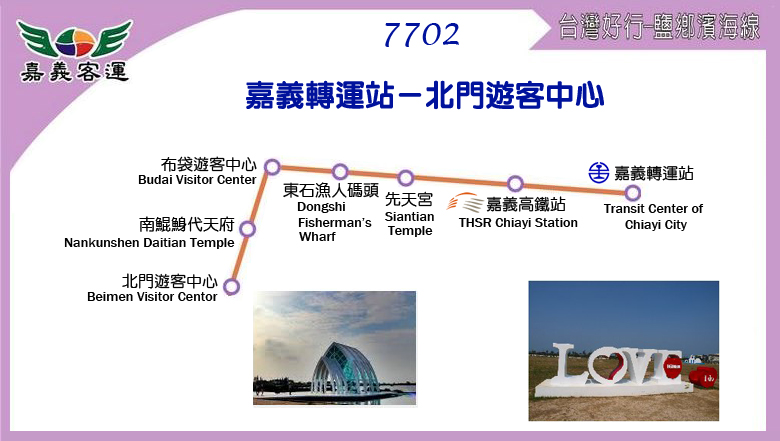
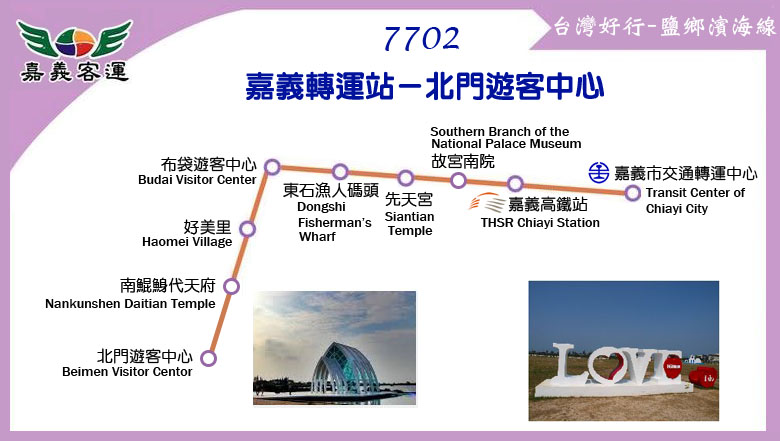
更新時刻表：7702 (郵輪式觀光公車待補)

diff --git a/route/fare_and_time/tour_bus_7702.js b/route/fare_and_time/tour_bus_7702.js
@@ -1,31 +1,36 @@
-tour_bus_7702_interval_name = ["嘉義<br />轉運站","嘉義<br />高鐵站","先天宮","東石漁<br />人碼頭","布袋遊<br />客中心","南鯤鯓<br />代天府","北門遊<br />客中心"];
+tour_bus_7702_interval_name = ["嘉義<br />轉運站","嘉義<br />高鐵站","故宮南院","先天宮","東石漁<br />人碼頭","布袋遊<br />客中心","好美里","南鯤鯓<br />代天府","北門遊<br />客中心"];
 tour_bus_7702_interval_stop = [
-["嘉義轉運站"],
+["嘉義市交通轉運中心"],
 ["嘉義高鐵站"],
+["故宮南院"],
 ["先天宮"],
 ["東石漁人碼頭"],
 ["布袋遊客中心"],
+["好美里"],
 ["南鯤鯓代天府"],
 ["北門遊客中心"]
 ];
-tour_bus_7702_stop_time_consume = [0,20,45,47,65,82,87];
 tour_bus_7702_fare = [
-[24,39,98,103,135,175,184],
-[44,24,59,64,96,137,145],
-[112,67,24,21,37,77,86],
-[117,73,24,24,32,73,81],
-[154,110,42,37,24,40,49],
-[200,155,88,83,46,24,21],
-[210,165,98,92,55,24,24]
+[24,39,49,99,104,136,168,187,196],
+[44,24,21,60,65,97,129,149,157],
+[56,24,24,50,54,87,118,138,147],
+[113,68,56,24,21,28,59,79,87],
+[118,74,62,24,24,33,64,84,92],
+[155,111,99,32,37,24,31,51,60],
+[191,147,135,67,73,36,24,21,28],
+[213,169,157,90,95,58,24,24,21],
+[223,179,167,100,105,68,32,24,24]
 ];
 // format = [time at the start stop] or
 // [time, other] or
 // [time, start_stop, end_stop, other]
-tour_bus_7702_main_stop_name = ["嘉義<br />轉運站","嘉義<br />高鐵站","先天宮","東石<br />漁人碼頭","布袋<br />遊客中心","南鯤鯓<br />代天府","北門<br />遊客中心"];
-tour_bus_7702_main_stop_time_consume = [0,20,45,47,65,82,87];
-tour_bus_7702_important_stop = [0, 1, 6]; // 嘉義轉運站, 嘉義高鐵站, 北門遊客中心
-tour_bus_7702_time_go = [["08:30"],["13:00"]];
-tour_bus_7702_time_return = [["11:00",['觀',[4,30]]],["15:00"]];
+tour_bus_7702_main_stop_name = ["嘉義<br />轉運站","嘉義<br />高鐵站","故宮南院","先天宮","東石<br />漁人碼頭","布袋<br />遊客中心","好美里","南鯤鯓<br />代天府","北門<br />遊客中心"];
+tour_bus_7702_main_stop_time_consume = [0,20,30,50,52,70,85,95,100];
+tour_bus_7702_important_stop = [0, 1, 2, 5, 8]; // 嘉義轉運站, 嘉義高鐵站, 故宮南院, 布袋遊客中心, 北門遊客中心
+var stop_1 = 2; // 故宮南院
+var stop_2 = 5; // 布袋遊客中心
+tour_bus_7702_time_go = [["08:10"],["12:50",[[stop_1,10]]]];
+tour_bus_7702_time_return = [["10:30",['觀',[stop_2,40]]],["14:40",[[stop_1-1,-5]]]];
 // holiday schedule
-tour_bus_7702_holiday_time_go = [["08:30"],["10:00"],["14:00"],["16:00"]];
-tour_bus_7702_holiday_time_return = [["11:00",['觀',[4,30]]],["12:00"],["16:00"],["17:30"]];
+tour_bus_7702_holiday_time_go = [["08:10"],["12:50",[[stop_1,10]]]];
+tour_bus_7702_holiday_time_return = [["10:30",['觀',[stop_2,40]]],["14:40",[[stop_1-1,-5]]]];

diff --git a/route/fare_and_time/green_17.js b/route/fare_and_time/green_17.js
@@ -4,13 +4,12 @@ green_17_interval_stop = [
 ["臺南站","新光三越新天地","小西門(大億麗緻)","西門、友愛街口","西門、民權路口","民權路","中山、民權路口","臺南火車站","臺南公園(北門路)","成功大學","成大醫院","光明街口"], // 臺南
 ["四份子","臺灣銀行","榮民醫院"], // 網寮
 ["漢聲電台","建國里","崑山科大","崑山社區","天公廟(永康)"], // 崑山科大
-["埔子尾","南灣","大灣三街","大灣高中","大灣","姓鄭仔","北灣"], // 大灣
-["南西勢","西勢國小","西勢里","番薯厝"], // 西勢里
+["埔子尾","南灣","大灣三街","大灣","姓鄭仔","北灣村"], // 大灣
+["南西勢","西勢國小","西勢里","蕃薯厝"], // 西勢里
 ["崙子頂","東崙子頂"], // 崙子頂
 ["竹子腳(大灣)","洋子"], // 洋子
 ["營盤後","清水寺","農會前","新化站"] // 新化
 ];
-green_17_stop_time_consume = [0,1,3,5,7,8,10,11,12,14,15,17,18,20,21,23,24,26,27,28,29,30,31,32,33,34,35,36,37,40,38,39,40,41,41,42,43,44,45,46,47,48,49,49,50];
 green_17_fare = [
 [26],
 [26,26],

diff --git a/tour_bus/tour_bus_7702.html b/tour_bus/tour_bus_7702.html
@@ -26,7 +26,7 @@
 	block_route_map(null);
 	block_route_info(route_interval,'嘉義客運','','里程計費',['http://www.taiwantrip.com.tw/Besttour/Info/?id=42" target="_blank','台灣好行官方網站'],[['平日','normal'],['假日','holiday']]);
 	block_fare(10, null);
-	block_multiple_time_schedule( [['平日班表','normal'],['假日班表','holiday']], '「<font color="red">觀</font>」表示採觀光公車模式，返程停靠布袋遊客中心30分鐘，上述時間為開車時間');
+	block_multiple_time_schedule( [['平日班表','normal'],['假日班表','holiday']], '「<font color="red">觀</font>」表示採觀光公車模式，返程停靠布袋遊客中心40分鐘，上述時間為開車時間');
 	block_transfer(transfer_hsr_chiayi_station + transfer_south_kunshen + transfer_beimen);
 	block_copyright();
 </script>
